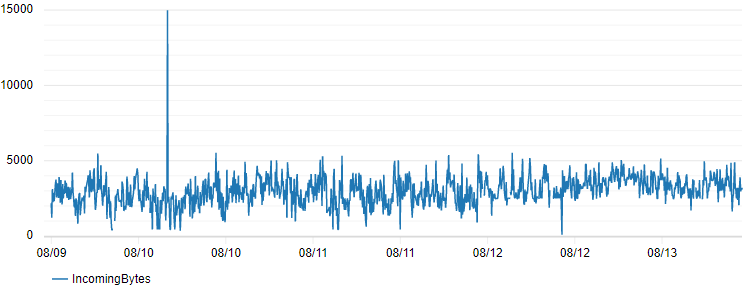
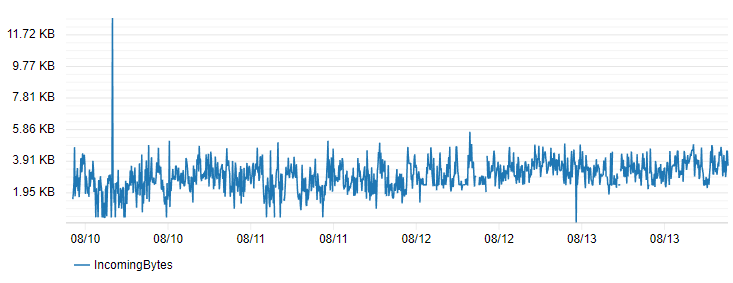
Adds formatting labels using ByteSize for data which is in bytes/kb/mb/gb/tb.

diff --git a/src/Narochno.CloudWatch.Graphs/Internal/PlotTimeBuilder.cs b/src/Narochno.CloudWatch.Graphs/Internal/PlotTimeBuilder.cs
@@ -1,5 +1,6 @@
 using Amazon.CloudWatch;
 using Amazon.CloudWatch.Model;
+using ByteSizeLib;
 using OxyPlot;
 using OxyPlot.Axes;
 using System;
@@ -50,6 +51,7 @@ namespace Narochno.CloudWatch.Graphs.Internal
             var model = new PlotModel
             {
                 DefaultFont = "Arial",
+                Padding = new OxyThickness(20d),
                 LegendPlacement = LegendPlacement.Outside,
                 LegendPosition = LegendPosition.BottomLeft,
                 LegendOrientation = LegendOrientation.Horizontal,
@@ -72,15 +74,21 @@ namespace Narochno.CloudWatch.Graphs.Internal
                 PlotAreaBorderColor = OxyColor.FromRgb(204, 204, 204)
             };
 
-            var yAxis = new LinearAxis
+            var dataRanges = new List<Tuple<StandardUnit, double>>();
+
+            foreach (var response in responses.Where(x => x.Value.Result.Datapoints.Any()))
             {
-                Position = AxisPosition.Left,
-                TicklineColor = OxyColor.FromArgb(0, 0, 0, 0),
-                MajorGridlineStyle = LineStyle.Solid,
-                MajorGridlineColor = OxyColor.FromRgb(230, 230, 230),
-                MinorGridlineStyle = LineStyle.Solid,
-                MinorGridlineColor = OxyColor.FromRgb(244, 244, 244)
-            };
+                var orderedData = response.Value.Result.Datapoints.OrderByDescending(i => i.StatisticTypeValue(response.Key.StatisticType));
+
+                var highestDataPoint = orderedData.First();
+                var lowestDataPoint = orderedData.Last();
+
+                dataRanges.Add(Tuple.Create(highestDataPoint.Unit, highestDataPoint.StatisticTypeValue(response.Key.StatisticType)));
+                dataRanges.Add(Tuple.Create(lowestDataPoint.Unit, lowestDataPoint.StatisticTypeValue(response.Key.StatisticType)));
+
+                var series = seriesBuilder.BuildSeries(response.Key, response.Value.Result.Datapoints);
+                model.Series.Add(series);
+            }
 
             var aAxis = new DateTimeAxis
             {
@@ -91,16 +99,59 @@ namespace Narochno.CloudWatch.Graphs.Internal
                 StringFormat = GetTimeFormat()
             };
 
-            model.Axes.Add(yAxis);
+            model.Axes.Add(InferYAxis(dataRanges));
             model.Axes.Add(aAxis);
 
-            foreach (var response in responses.Where(x => x.Value.Result.Datapoints.Any()))
+            return model;
+        }
+
+        public Axis InferYAxis(IList<Tuple<StandardUnit, double>> dataRanges)
+        {
+            var highest = dataRanges.Max(x => x.Item2);
+            var lowest = dataRanges.Min(x => x.Item2);
+
+            var yAxis = new LinearAxis
             {
-                var series = seriesBuilder.BuildSeries(response.Key, response.Value.Result.Datapoints);
-                model.Series.Add(series);
+                Position = AxisPosition.Left,
+                Minimum = lowest,
+                IntervalLength = 30,
+                Maximum = highest,
+                TicklineColor = OxyColor.FromArgb(0, 0, 0, 0),
+                MajorGridlineStyle = LineStyle.Solid,
+                MajorGridlineColor = OxyColor.FromRgb(230, 230, 230),
+                MinorGridlineStyle = LineStyle.Solid,
+                MinorGridlineColor = OxyColor.FromRgb(244, 244, 244)
+            };
+
+            var unit = dataRanges.First().Item1;
+
+            // Only apply formatting for specific unit
+            // if all data points are using the same
+            if (dataRanges.All(x => x.Item1 == unit))
+            {
+                if (unit == StandardUnit.Bits || unit == StandardUnit.BitsSecond)
+                {
+                    yAxis.LabelFormatter = (value) => ByteSize.FromBits((long)value).ToString();
+                }
+                if (unit == StandardUnit.Bytes || unit == StandardUnit.BytesSecond)
+                {
+                    yAxis.LabelFormatter = (value) => ByteSize.FromBytes(value).ToString();
+                }
+                if (unit == StandardUnit.Megabytes || unit == StandardUnit.MegabytesSecond)
+                {
+                    yAxis.LabelFormatter = (value) => ByteSize.FromMegaBytes(value).ToString();
+                }
+                if (unit == StandardUnit.Gigabytes || unit == StandardUnit.GigabytesSecond)
+                {
+                    yAxis.LabelFormatter = (value) => ByteSize.FromGigaBytes(value).ToString();
+                }
+                if (unit == StandardUnit.Terabytes || unit == StandardUnit.TerabytesSecond)
+                {
+                    yAxis.LabelFormatter = (value) => ByteSize.FromTeraBytes(value).ToString();
+                }
             }
 
-            return model;
+            return yAxis;
         }
 
         public string GetTimeFormat()

diff --git a/src/Narochno.CloudWatch.Graphs/Internal/SeriesBuilder.cs b/src/Narochno.CloudWatch.Graphs/Internal/SeriesBuilder.cs
@@ -43,26 +43,7 @@ namespace Narochno.CloudWatch.Graphs.Internal
                     throw new InvalidOperationException($"Generated time slice array doesn't contain {dataPoint.Timestamp}");
                 }
 
-                switch (metric.StatisticType)
-                {
-                    case StatisticType.Average:
-                        points[dataPoint.Timestamp] = dataPoint.Average;
-                        break;
-                    case StatisticType.Sum:
-                        points[dataPoint.Timestamp] = dataPoint.Sum;
-                        break;
-                    case StatisticType.SampleCount:
-                        points[dataPoint.Timestamp] = dataPoint.SampleCount;
-                        break;
-                    case StatisticType.Maximum:
-                        points[dataPoint.Timestamp] = dataPoint.Maximum;
-                        break;
-                    case StatisticType.Minimum:
-                        points[dataPoint.Timestamp] = dataPoint.Minimum;
-                        break;
-                    default:
-                        throw new InvalidOperationException($"Statistic type {metric.StatisticType} not supported");
-                }
+                points[dataPoint.Timestamp] = dataPoint.StatisticTypeValue(metric.StatisticType);
             }
 
             series.ItemsSource = points.Select(x => DateTimeAxis.CreateDataPoint(x.Key, x.Value));

diff --git a/src/Narochno.CloudWatch.Graphs/DatapointExtensions.cs b/src/Narochno.CloudWatch.Graphs/DatapointExtensions.cs
@@ -1,0 +1,27 @@
+using Amazon.CloudWatch.Model;
+using System;
+
+namespace Narochno.CloudWatch.Graphs
+{
+    public static class DatapointExtensions
+    {
+        public static double StatisticTypeValue(this Datapoint dataPoint, StatisticType statisticType)
+        {
+            switch (statisticType)
+            {
+                case StatisticType.Average:
+                    return dataPoint.Average;
+                case StatisticType.Sum:
+                    return dataPoint.Sum;
+                case StatisticType.SampleCount:
+                    return dataPoint.SampleCount;
+                case StatisticType.Maximum:
+                    return dataPoint.Maximum;
+                case StatisticType.Minimum:
+                    return dataPoint.Minimum;
+                default:
+                    throw new InvalidOperationException($"Statistic type {statisticType} not supported");
+            }
+        }
+    }
+}

diff --git a/test/Narochno.CloudWatch.Graphs.Tester/Program.cs b/test/Narochno.CloudWatch.Graphs.Tester/Program.cs
@@ -42,9 +42,7 @@ namespace Narochno.CloudWatch.Graphs.Tester
                 Height = 300
             };
 
-            File.Delete("example.svg");
-
-            using (var output = File.OpenWrite("example.svg"))
+            using (var output = File.Open("example.svg", FileMode.Create))
             {
                 svgExporter.Export(plotModel, output);
             }

diff --git a/README.md b/README.md
@@ -24,7 +24,7 @@ var svgExporter = new SvgExporter
     Height = 300
 };
 
-using (var output = File.OpenWrite("example.svg"))
+using (var output = File.Open("example.svg", FileMode.Create))
 {
     svgExporter.Export(plotModel, output);
 }
